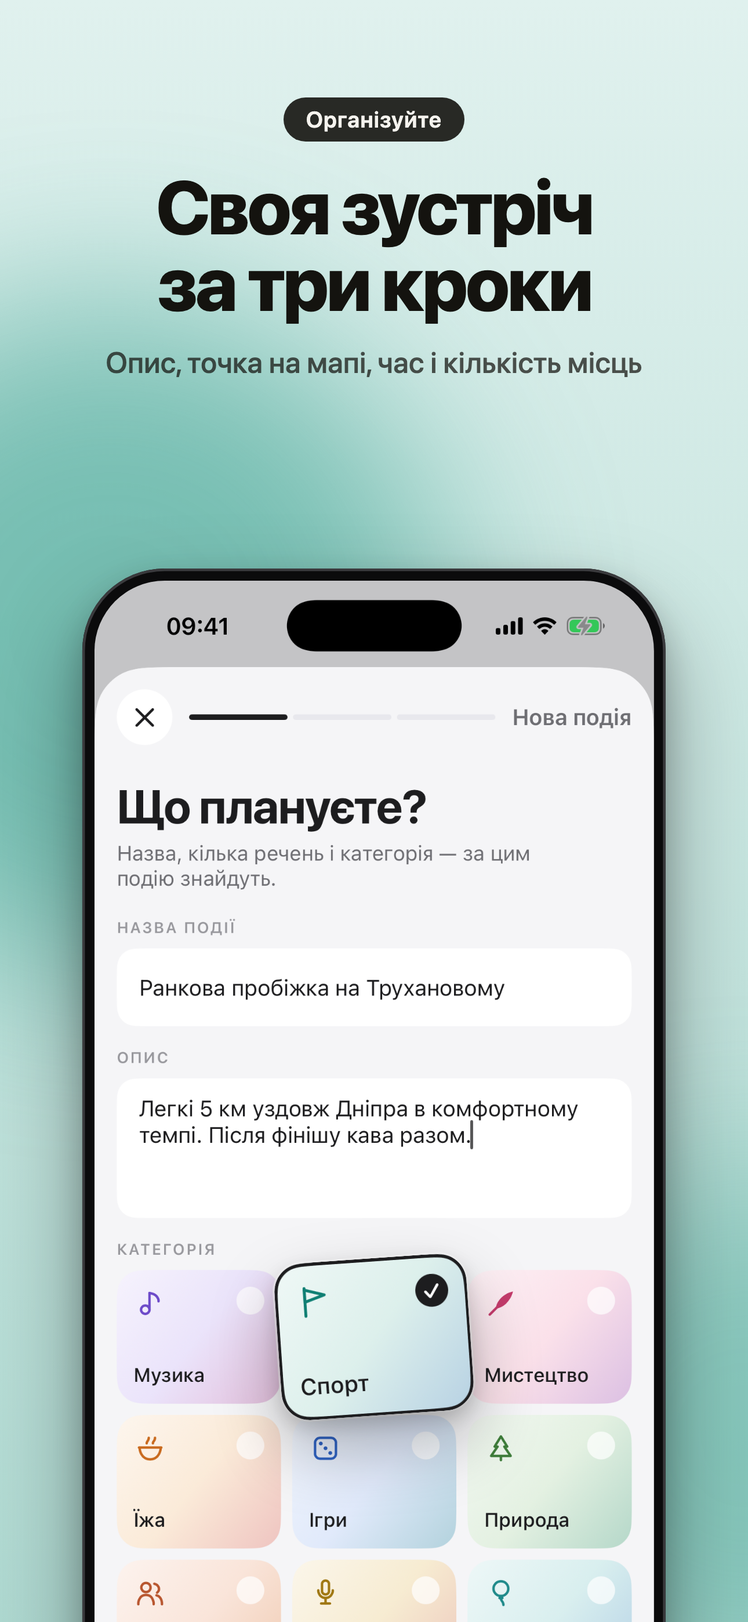
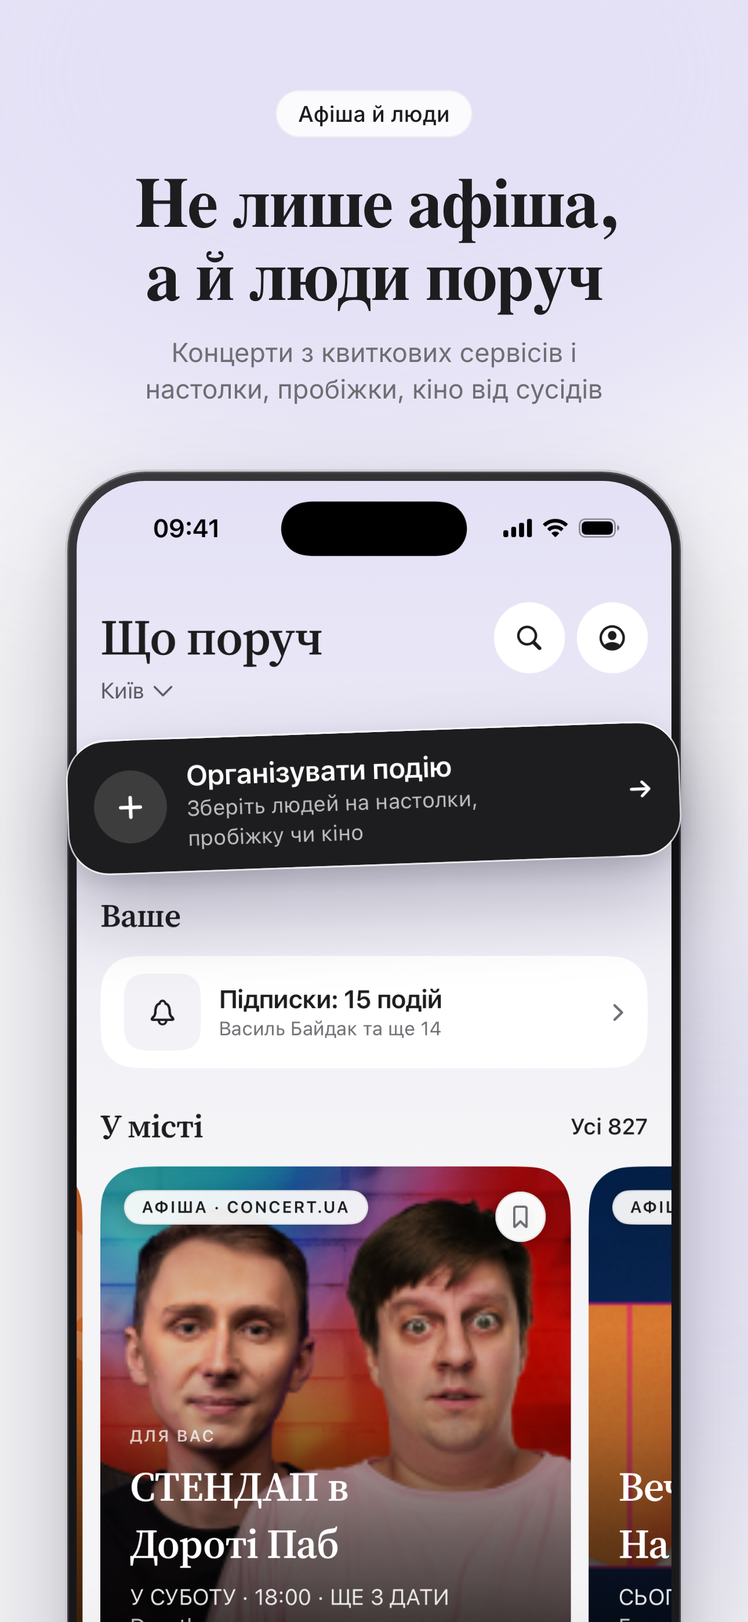
feat(store): нові скріни для App Store і Google Play
Шість слайдів з prod-збірок 05.10 (мапа, подія, «Шукаю компанію», безпека,
головна, створення події): заголовки Source Serif 4, сяйво бренду, великий
телефон і винесений крупний план справжнього UI. Feature graphic у тій самій
мові. Опис перезйомки — store/listing.md.

diff --git a/tools/store_shots.py b/tools/store_shots.py
@@ -1,8 +1,8 @@
 """Збирає графіку для сторів із сирих екранів у store/screens/.
 
-Кожен слайд — HTML (фон, заголовок, телефон у рамці, «винесені» шматки
-справжнього UI), який рендерить headless Chrome. Перезняти екрани після
-зміни UI, оновити координати crop у SLIDES і запустити:
+Кожен слайд — HTML (фон у мові бренду, заголовок Source Serif 4, великий телефон, обрізаний краєм,
+і «винесений» над ним шматок справжнього UI), який рендерить headless Chrome. Перезняти екрани після
+зміни UI (див. store/listing.md), оновити координати crop у SLIDES і запустити:
 
     python3 tools/store_shots.py
 """
@@ -12,50 +12,53 @@ import tempfile
 
 ROOT = pathlib.Path(__file__).resolve().parent.parent
 SCREENS = ROOT / "store" / "screens"
-ZOOM = 1.18
+FONTS = ROOT / "site" / "fonts"  # ті самі Inter і Source Serif 4, що на сайті й у застосунку
+ZOOM = 1.12
 CHROME = "/Applications/Google Chrome.app/Contents/MacOS/Google Chrome"
 
-# Сирі розміри екранів: iPhone 17 Pro і Pixel-емулятор.
+# Сирі розміри екранів: iPhone 16 Pro і Pixel-емулятор.
 RAW = {"ios": (1206, 2622), "and": (1280, 2856)}
 
-# bg: (верх, низ, колір сяйва); dark — світлий текст.
-# float: шматок UI (x0, y0, x1, y1, радіус кутів) у пікселях сирого екрана, який «піднімається»
-# над своїм місцем: збільшений у ZOOM разів, з тінню і нахилом rot.
+# Перші три слайди видно в пошуку стору — на них головні гачки.
+# tint: сяйво слайда (dark — темний слайд). float: (x0, y0, x1, y1, радіус, нахил) у пікселях сирого екрана —
+# шматок UI, збільшений у ZOOM разів з тінню; якщо його місце нижче краю слайда, він піднімається у видиму частину.
 SLIDES = [
     dict(
-        key="map", dark=True, bg=("#1d1a16", "#0e0d0b", "#D9603A"),
-        eyebrow="Мапа міста", title="Що відбувається поруч",
-        sub="Концерти, настолки, пробіжки й лекції на одній мапі",
-        ios=[(50, 1911, 1042, 2244, 52, -3)],
-        android=[(49, 409, 1227, 520, 55, -2)],
+        key="map", dark=True, tint="#3B2F8F",
+        eyebrow="Київ · Львів · Одеса · Дніпро · Харків", pin=True,
+        title="Куди піти сьогодні ввечері?",
+        sub="Концерти, вистави й зустрічі міста на одній мапі",
+        ios=(87, 1914, 1080, 2242, 78, -2), android=(49, 2208, 1137, 2529, 63, -2),
     ),
     dict(
-        key="plans", bg=("#FBE7DE", "#F2C6B2", "#EE8B63"),
-        eyebrow="Мої події", title="Ваш план на тиждень",
-        sub="Куди йдете, що організовуєте й що зберегли на потім",
-        ios=[(50, 1009, 1156, 1337, 52, -3)],
-        android=[(49, 986, 1227, 1239, 50, -3)],
+        key="detail", tint="#F1D9BC",
+        eyebrow="Афіша", title="Увесь вечір на одному екрані",
+        sub="Дати, ціна, маршрут і календар. Квиток — на сайті організатора",
+        ios=(39, 2097, 1167, 2485, 84, 2), android=(37, 2320, 1243, 2757, 69, 2),
     ),
     dict(
-        key="detail", bg=("#EFE8FB", "#CDBDF2", "#8B6BE0"),
-        eyebrow="Афіша", title="Уся подія на одному екрані",
-        sub="Час, місце, ціна квитка, маршрут і нагадування",
-        ios=[(52, 1442, 1154, 1698, 60, 2)],
-        android=[(41, 1247, 1239, 1513, 60, 2)],
+        key="companions", tint="#F4D3DE",
+        eyebrow="Шукаю компанію", title="Не хочете йти самі?",
+        sub="Зберіть невелику компанію на концерт — ви вирішуєте, кого взяти",
+        ios=(50, 755, 1156, 1001, 72, -2), android=(49, 1694, 1231, 1940, 51, -2),
     ),
     dict(
-        key="community", bg=("#E4F2E6", "#B9DDBF", "#4E9A5B"),
-        eyebrow="Спільнота", title="Зустрічі, які створюють люди",
-        sub="Пікнік, пробіжка, настолки: приєднуйтесь одним дотиком",
-        ios=[(50, 1738, 1156, 2294, 66, -3)],
-        android=[(49, 1669, 1227, 2135, 57, -3)],
+        key="safety", tint="#D3E6D5",
+        eyebrow="Безпека", title="Укриття поруч&nbsp;— ще до виходу",
+        sub="Найближчі укриття, метро й час до комендантської. Поки що для Києва",
+        ios=(50, 910, 1156, 1657, 72, -1.5), android=(49, 1046, 1231, 1788, 51, -1.5),
     ),
     dict(
-        key="create", bg=("#E0F1EE", "#AFD9D1", "#2F9C8A"),
-        eyebrow="Організуйте", title="Своя зустріч за три кроки",
-        sub="Опис, точка на мапі, час і кількість місць",
-        ios=[(427, 1485, 779, 1772, 52, -4)],
-        android=[(454, 1464, 826, 1750, 41, -4)],
+        key="home", tint="#E4E1F6",
+        eyebrow="Афіша й люди", title="Не лише афіша, а й люди поруч",
+        sub="Концерти з квиткових сервісів і настолки, пробіжки, кіно від сусідів",
+        ios=(50, 524, 1156, 763, 72, -2), android=(49, 494, 1231, 697, 63, -2),
+    ),
+    dict(
+        key="create", tint="#D6E2F6",
+        eyebrow="Свої зустрічі", title="Зберіть своїх за три кроки",
+        sub="Настолки, пробіжка чи кіно: опис, місце й час",
+        ios=(427, 1940, 779, 2223, 60, -4), android=(451, 1863, 829, 2146, 46, -4),
     ),
 ]
 
@@ -67,90 +70,121 @@ TARGETS = [
     ("play", "phone_", "and", 1080, 1920),
 ]
 
-CSS = """
+PIN = ('<svg viewBox="0 0 24 24" fill="none" stroke="currentColor" stroke-width="1.9" stroke-linecap="round" '
+       'stroke-linejoin="round"><path d="M12 21C12 21 4.8 13.6 4.8 9.4C4.8 5.4 8 2.8 12 2.8C16 2.8 19.2 5.4 19.2 '
+       '9.4C19.2 13.6 12 21 12 21ZM9.2 9.4a2.8 2.8 0 1 0 5.6 0a2.8 2.8 0 1 0-5.6 0Z"/></svg>')
+
+FONT_CSS = f"""
+@font-face{{font-family:Inter;font-weight:400;src:url({(FONTS / 'inter-cyrillic-400-normal.woff2').as_uri()});unicode-range:U+0400-045F,U+0490-0491}}
+@font-face{{font-family:Inter;font-weight:500;src:url({(FONTS / 'inter-cyrillic-500-normal.woff2').as_uri()});unicode-range:U+0400-045F,U+0490-0491}}
+@font-face{{font-family:Inter;font-weight:600;src:url({(FONTS / 'inter-cyrillic-600-normal.woff2').as_uri()});unicode-range:U+0400-045F,U+0490-0491}}
+@font-face{{font-family:Inter;font-weight:400;src:url({(FONTS / 'inter-latin-400-normal.woff2').as_uri()});unicode-range:U+0000-00FF,U+2000-206F}}
+@font-face{{font-family:Inter;font-weight:500;src:url({(FONTS / 'inter-latin-500-normal.woff2').as_uri()});unicode-range:U+0000-00FF,U+2000-206F}}
+@font-face{{font-family:Inter;font-weight:600;src:url({(FONTS / 'inter-latin-600-normal.woff2').as_uri()});unicode-range:U+0000-00FF,U+2000-206F}}
+@font-face{{font-family:Serif;font-weight:600;src:url({(FONTS / 'source-serif-4-600.woff2').as_uri()})}}
+"""
+
+CSS = FONT_CSS + """
 *{margin:0;box-sizing:border-box}
 html{font-size:calc(var(--w)/100)}
-body{width:var(--w);height:var(--h);overflow:hidden;position:relative;
- font-family:-apple-system,"SF Pro Display",system-ui,sans-serif;color:var(--ink);
- background:linear-gradient(180deg,var(--top),var(--bottom))}
-.glow{position:absolute;border-radius:50%;filter:blur(12rem);opacity:.55}
-.head{position:absolute;left:7rem;right:7rem;top:var(--headtop);text-align:center}
-.pill{display:inline-block;font-size:3rem;font-weight:600;letter-spacing:.02em;padding:1.2rem 3rem;
- border-radius:10rem;background:var(--pill);color:var(--pillink);margin-bottom:3.6rem}
-h1{text-wrap:balance;font-size:var(--h1);line-height:1.02;font-weight:800;letter-spacing:-.035em}
-p{text-wrap:balance;font-size:3.9rem;line-height:1.3;margin-top:3rem;opacity:.72;font-weight:500}
-.stage{position:absolute;left:50%;top:var(--phonetop);width:var(--phonew);transform:translateX(-50%)}
-.phone{position:relative;width:100%;border-radius:var(--rad);padding:var(--bezel);background:#0b0b0c;
- box-shadow:0 0 0 .35rem #3a3a3d inset,0 6rem 12rem rgba(0,0,0,.35),0 2rem 4rem rgba(0,0,0,.2)}
+body{width:var(--w);height:var(--h);overflow:hidden;position:relative;color:var(--ink);
+ font-family:Inter,-apple-system,sans-serif;-webkit-font-smoothing:antialiased;background:var(--bg)}
+.glow{position:absolute;border-radius:50%;filter:blur(14rem)}
+.head{position:absolute;left:6rem;right:6rem;top:var(--headtop);text-align:center;display:flex;flex-direction:column;align-items:center}
+.eyebrow{display:inline-flex;align-items:center;gap:1rem;height:6.4rem;padding:0 3rem;border-radius:10rem;
+ font-weight:500;font-size:2.9rem;letter-spacing:.01em;background:var(--chip);color:var(--chipink);
+ box-shadow:0 0 0 .18rem var(--chipline) inset;margin-bottom:var(--gap1)}
+.eyebrow svg{width:3rem;height:3rem}
+h1{font-family:Serif,Georgia,serif;font-weight:600;font-size:var(--h1);line-height:1.04;letter-spacing:-.025em;
+ text-wrap:balance;max-width:88rem}
+p{font-size:var(--sub);line-height:1.38;margin-top:var(--gap2);color:var(--ink2);text-wrap:balance;max-width:82rem}
+.phone{position:absolute;left:50%;top:var(--phonetop);width:var(--phonew);transform:translateX(-50%);
+ border-radius:var(--rad);padding:var(--bezel);background:linear-gradient(160deg,#3a3a3e,#111113 40%,#1c1c1f);
+ box-shadow:0 0 0 .22rem rgba(255,255,255,.14) inset,0 0 0 .3rem var(--rim),0 10rem 20rem var(--shadow),0 3rem 6rem rgba(0,0,0,.12)}
 .phone img{display:block;width:100%;border-radius:calc(var(--rad) - var(--bezel))}
-.hole{position:absolute;left:50%;top:calc(var(--bezel) + 1.6rem);width:2.6rem;height:2.6rem;margin-left:-1.3rem;
+.hole{position:absolute;left:50%;top:calc(var(--bezel) + 1.5rem);width:2.4rem;height:2.4rem;margin-left:-1.2rem;
  border-radius:50%;background:#050505}
 .float{position:absolute;background-repeat:no-repeat;
- box-shadow:0 4rem 9rem rgba(0,0,0,.28),0 1rem 2.5rem rgba(0,0,0,.14),0 0 0 .25rem rgba(255,255,255,.6)}
+ box-shadow:0 0 0 .22rem rgba(255,255,255,.75),0 5rem 11rem rgba(18,16,40,.28),0 1.2rem 3rem rgba(0,0,0,.12)}
 """
 
 
 def slide_html(s, plat, w, h):
     rw, rh = RAW[plat]
     tall = h / w > 2  # iPhone 19.5:9 проти Play 16:9
-    phone_w = 78 if tall else 72  # rem
-    bezel = 1.6
-    screen_w = phone_w - 2 * bezel
-    scale = screen_w / rw  # rem на сирий піксель
-    top, bottom, glow = s["bg"]
+    page_h = h / w * 100  # висота слайда в rem
+    phone_w = 82 if tall else 72
+    phone_top = 63 if tall else 49
+    bezel = 1.25
+    scale = (phone_w - 2 * bezel) / rw  # rem на сирий піксель
     dark = s.get("dark", False)
+    tint = s["tint"]
     vars_ = {
-        "--w": f"{w}px", "--h": f"{h}px", "--top": top, "--bottom": bottom,
-        "--ink": "#F5F3EE" if dark else "#14130F",
-        "--pill": "rgba(255,255,255,.12)" if dark else "rgba(20,19,15,.9)",
-        "--pillink": "#F5F3EE",
-        "--headtop": "13rem" if tall else "6rem",
-        "--h1": "10rem" if tall else "8.6rem",
-        "--phonetop": "76rem" if tall else "56rem",
-        "--phonew": f"{phone_w}rem", "--rad": "11rem" if plat == "ios" else "8.5rem",
-        "--bezel": f"{bezel}rem",
+        "--w": f"{w}px", "--h": f"{h}px",
+        "--bg": "#0B0B0F" if dark else "#F5F5F7",
+        "--ink": "#F5F5F7" if dark else "#1D1D1F",
+        "--ink2": "rgba(245,245,247,.68)" if dark else "#6E6E73",
+        "--chip": "rgba(255,255,255,.08)" if dark else "rgba(255,255,255,.85)",
+        "--chipink": "#F5F5F7" if dark else "#1D1D1F",
+        "--chipline": "rgba(255,255,255,.14)" if dark else "rgba(29,29,31,.06)",
+        "--rim": "#4a4a50" if dark else "#c9c9cf",
+        "--shadow": "rgba(0,0,0,.55)" if dark else "rgba(30,26,60,.22)",
+        "--headtop": "12rem" if tall else "7rem",
+        "--h1": "9.4rem" if tall else "8rem",
+        "--sub": "3.5rem" if tall else "3.2rem",
+        "--gap1": "4rem" if tall else "3rem",
+        "--gap2": "2.8rem" if tall else "2.2rem",
+        "--phonetop": f"{phone_top}rem", "--phonew": f"{phone_w}rem",
+        "--rad": "10.5rem" if plat == "ios" else "8rem", "--bezel": f"{bezel}rem",
     }
     img = (SCREENS / f"{plat}_{s['key']}.png").as_uri()
-    floats = []
-    for x0, y0, x1, y1, rad, rot in s["ios" if plat == "ios" else "android"]:
-        k = scale * ZOOM  # rem на сирий піксель у винесеному шматку
-        fw, fh = (x1 - x0) * k, (y1 - y0) * k
-        cx, cy = bezel + (x0 + x1) / 2 * scale, bezel + (y0 + y1) / 2 * scale
-        floats.append(
-            f'<div class="float" style="left:{cx - fw / 2}rem;top:{cy - fh / 2}rem;width:{fw}rem;height:{fh}rem;'
-            f'border-radius:{rad * k}rem;transform:rotate({rot}deg);background-image:url({img});'
-            f'background-size:{rw * k}rem {rh * k}rem;background-position:{-x0 * k}rem {-y0 * k}rem"></div>'
-        )
+    x0, y0, x1, y1, rad, rot = s["ios" if plat == "ios" else "android"]
+    k = scale * ZOOM  # rem на сирий піксель у винесеному шматку
+    fw, fh = (x1 - x0) * k, (y1 - y0) * k
+    left = (100 - phone_w) / 2 + bezel + (x0 + x1) / 2 * scale - fw / 2
+    top = phone_top + bezel + (y0 + y1) / 2 * scale - fh / 2
+    top = min(top, page_h - fh - 7)  # шматок, що опинився б під краєм, піднімається у видиму частину
+    left = max(3, min(left, 97 - fw))
+    float_ = (
+        f'<div class="float" style="left:{left}rem;top:{top}rem;width:{fw}rem;height:{fh}rem;'
+        f'border-radius:{rad * k}rem;transform:rotate({rot}deg);background-image:url({img});'
+        f'background-size:{rw * k}rem {rh * k}rem;background-position:{-x0 * k}rem {-y0 * k}rem"></div>'
+    )
+    glows = (
+        f'<div class="glow" style="background:{tint};width:150rem;height:110rem;left:-25rem;top:-45rem;opacity:{.9 if dark else 1}"></div>'
+        f'<div class="glow" style="background:{"#E0582F" if dark else tint};width:90rem;height:90rem;right:-40rem;'
+        f'top:{page_h * .55}rem;opacity:{.22 if dark else .7}"></div>'
+    )
     style = ";".join(f"{k}:{v}" for k, v in vars_.items())
     hole = '<div class="hole"></div>' if plat == "and" else ""
+    pin = PIN if s.get("pin") else ""
     return f"""<!doctype html><html style="{style}"><head><meta charset="utf-8"><style>{CSS}</style></head><body>
-<div class="glow" style="background:{glow};width:90rem;height:90rem;left:-30rem;top:40rem"></div>
-<div class="glow" style="background:{glow};width:70rem;height:70rem;right:-35rem;bottom:-10rem;opacity:.35"></div>
-<div class="head"><div class="pill">{s['eyebrow']}</div><h1>{s['title']}</h1><p>{s['sub']}</p></div>
-<div class="stage" style="height:{rh * scale + 2 * bezel}rem"><div class="phone"><img src="{img}">{hole}</div>{''.join(floats)}</div>
+{glows}
+<div class="head"><div class="eyebrow">{pin}{s['eyebrow']}</div><h1>{s['title']}</h1><p>{s['sub']}</p></div>
+<div class="phone"><img src="{img}">{hole}</div>{float_}
 </body></html>"""
 
 
-FEATURE = """<!doctype html><html><head><meta charset="utf-8"><style>
+FEATURE = """<!doctype html><html><head><meta charset="utf-8"><style>""" + FONT_CSS + """
 *{margin:0;box-sizing:border-box}
-body{width:1024px;height:500px;overflow:hidden;position:relative;background:linear-gradient(120deg,#1d1a16,#0e0d0b);
- font-family:-apple-system,system-ui,sans-serif;color:#F5F3EE}
-.glow{position:absolute;border-radius:50%;filter:blur(90px)}
-.brand{position:absolute;left:64px;top:92px;display:flex;align-items:center;gap:16px;font-size:34px;font-weight:700}
-.brand img{width:64px;height:64px;border-radius:15px}
-h1{position:absolute;left:64px;top:190px;width:480px;font-size:54px;line-height:1.02;font-weight:800;letter-spacing:-.035em}
-p{position:absolute;left:64px;top:326px;font-size:21px;opacity:.7;font-weight:500}
-.ph{position:absolute;width:250px;padding:7px;border-radius:40px;background:#0b0b0c;
- box-shadow:0 0 0 2px #3a3a3d inset,0 30px 60px rgba(0,0,0,.5)}
-.ph img{display:block;width:100%;border-radius:33px}
+body{width:1024px;height:500px;overflow:hidden;position:relative;background:#0B0B0F;color:#F5F5F7;
+ font-family:Inter,sans-serif;-webkit-font-smoothing:antialiased}
+.glow{position:absolute;border-radius:50%;filter:blur(110px)}
+.brand{position:absolute;left:64px;top:84px;display:flex;align-items:center;gap:14px;font:600 30px/1 Serif,serif}
+.brand img{width:52px;height:52px;border-radius:13px}
+h1{position:absolute;left:64px;top:170px;width:430px;font:600 56px/1.04 Serif,serif;letter-spacing:-.025em}
+p{position:absolute;left:64px;top:304px;width:380px;font-size:20px;line-height:1.4;color:rgba(245,245,247,.68)}
+.ph{position:absolute;width:236px;padding:6px;border-radius:38px;background:linear-gradient(160deg,#3a3a3e,#111113 40%,#1c1c1f);
+ box-shadow:0 0 0 1px #4a4a50,0 30px 70px rgba(0,0,0,.6)}
+.ph img{display:block;width:100%;border-radius:32px}
 </style></head><body>
-<div class="glow" style="background:#D9603A;width:420px;height:420px;right:40px;top:40px;opacity:.55"></div>
-<div class="glow" style="background:#8B6BE0;width:300px;height:300px;right:-80px;bottom:-160px;opacity:.45"></div>
+<div class="glow" style="background:#3B2F8F;width:560px;height:460px;right:-40px;top:-120px;opacity:.95"></div>
+<div class="glow" style="background:#E0582F;width:300px;height:300px;right:120px;bottom:-200px;opacity:.3"></div>
 <div class="brand"><img src="{icon}">Поряд</div>
-<h1>Події вашого міста на одній мапі</h1>
-<p>Знаходьте, приєднуйтесь, створюйте власні</p>
-<div class="ph" style="left:590px;top:70px;transform:rotate(-6deg)"><img src="{a}"></div>
-<div class="ph" style="left:785px;top:40px;transform:rotate(5deg)"><img src="{b}"></div>
+<h1>Куди піти сьогодні ввечері?</h1>
+<p>Концерти, вистави й зустрічі міста на одній мапі</p>
+<div class="ph" style="left:572px;top:66px;transform:rotate(-6deg)"><img src="{a}"></div>
+<div class="ph" style="left:776px;top:36px;transform:rotate(5deg)"><img src="{b}"></div>
 </body></html>"""
 
 
@@ -159,7 +193,8 @@ def render(html, out, w, h):
         f.write(html)
     subprocess.run(
         [CHROME, "--headless", "--disable-gpu", "--hide-scrollbars", "--force-device-scale-factor=1",
-         "--allow-file-access-from-files", f"--window-size={w},{h}", f"--screenshot={out}", f.name],
+         "--allow-file-access-from-files", "--virtual-time-budget=3000", f"--window-size={w},{h}",
+         f"--screenshot={out}", f.name],
         check=True, capture_output=True,
     )
     pathlib.Path(f.name).unlink()
@@ -168,12 +203,14 @@ def render(html, out, w, h):
 
 def main():
     for folder, prefix, plat, w, h in TARGETS:
+        for old in (ROOT / "store" / folder).glob(f"{prefix}*.png"):
+            old.unlink()  # слайдів могло стати менше
         for i, s in enumerate(SLIDES, 1):
             render(slide_html(s, plat, w, h), ROOT / "store" / folder / f"{prefix}{i:02d}.png", w, h)
     feature = (
         FEATURE.replace("{icon}", (ROOT / "store" / "play" / "icon_512.png").as_uri())
         .replace("{a}", (SCREENS / "and_map.png").as_uri())
-        .replace("{b}", (SCREENS / "and_community.png").as_uri())
+        .replace("{b}", (SCREENS / "and_detail.png").as_uri())
     )
     render(feature, ROOT / "store" / "play" / "feature_graphic_1024x500.png", 1024, 500)
 

diff --git a/store/listing.md b/store/listing.md
@@ -1,6 +1,6 @@
 # Тексти й графіка для сторів
 
-Графіку в цій теці збирає `python3 tools/store_shots.py` (HTML + headless Chrome) із сирих екранів у `screens/`. Скріни перезняті 2026-09-18 після редизайну з prod-збірок Debug-Prod (iPhone 17 Pro, Android-емулятор) місто Київ; слайди 1, 3, 4 без входу в акаунт, слайди 2 («Мої події») і 5 (створення події) з тестовим акаунтом, форму не опубліковано. На Android поля форми порожні: кирилицю в емулятор через adb не ввести. Після зміни UI треба перезняти `screens/*.png` з тими самими іменами, за потреби поправити координати винесених шматків у `SLIDES` і запустити скрипт.
+Графіку в цій теці збирає `python3 tools/store_shots.py` (HTML + headless Chrome, шрифти з `site/fonts/`) із сирих екранів у `screens/`. Шість слайдів (мапа, подія, «Шукаю компанію», безпека, головна, створення події) перезняті 2026-10-05 з prod-збірок (iPhone 16 Pro Debug-Prod, Android-емулятор prodDebug 1.2.0), місто Київ, акаунт власника; подія на слайдах 2–4 — «Музика всесвіту Хаяо Міядзакі при свічках» (Будинок актора, є укриття). Тестова «Демо для перевірки застосунку» (для App Review) не має потрапляти в кадр. «Шукаю компанію» і форму створення не публікувати. На Android поля форми порожні: кирилицю в емулятор через adb не ввести. Статус-бар: iOS — `simctl status_bar override --time 9:41`, Android — demo mode; значки сповіщень на Android скрипт не прибирає, їх затирали при копіюванні в `screens/`. Після зміни UI треба перезняти `screens/*.png` з тими самими іменами, за потреби поправити координати винесених шматків у `SLIDES` і запустити скрипт.
 
 ## Файли
 
@@ -8,10 +8,10 @@
 | --- | --- | --- |
 | `play/icon_512.png` | 512×512 | Play Console → Store listing → App icon |
 | `play/feature_graphic_1024x500.png` | 1024×500 | Play Console → Feature graphic |
-| `play/phone_01..05.png` | 1080×1920 | Play Console → Phone screenshots (порядок = нумерація) |
-| `appstore/iphone69_01..05.png` | 1320×2868 | App Store Connect → iPhone 6.9" |
-| `appstore/iphone67_01..05.png` | 1290×2796 | App Store Connect → iPhone 6.7" |
-| `appstore/iphone65_01..05.png` | 1242×2688 | App Store Connect → iPhone 6.5" |
+| `play/phone_01..06.png` | 1080×1920 | Play Console → Phone screenshots (порядок = нумерація) |
+| `appstore/iphone69_01..06.png` | 1320×2868 | App Store Connect → iPhone 6.9" |
+| `appstore/iphone67_01..06.png` | 1290×2796 | App Store Connect → iPhone 6.7" |
+| `appstore/iphone65_01..06.png` | 1242×2688 | App Store Connect → iPhone 6.5" |
 | `../iosApp/Poruch/Assets.xcassets/AppIcon.appiconset/AppIcon-1024.png` | 1024×1024 | іконка App Store (уже в проєкті) |
 
 iPad-скріншоти не потрібні: застосунок iPhone-only (`TARGETED_DEVICE_FAMILY = 1`, рішення 2026-09-18). Додати iPad можна пізніше, прибрати після релізу — ні.
